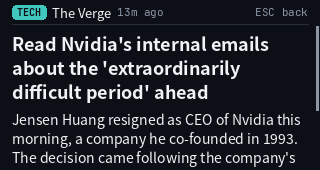
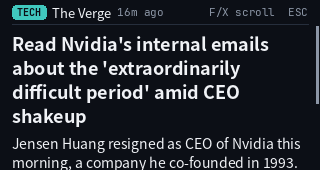
fix: use plain F/Z/X/C as arrow keys per CardputerZero key spec

diff --git a/zero_news.py b/zero_news.py
@@ -37,6 +37,9 @@ FB = '/dev/fb0'
 KBD = '/dev/input/cardputer-zero-internal'
 K_ESC, K_BACKSPACE, K_Q, K_R, K_P, K_ENTER, K_S, K_SPACE = 1, 14, 16, 19, 25, 28, 31, 57
 K_UP, K_LEFT, K_RIGHT, K_DOWN = 103, 105, 106, 108
+# Per the CardputerZero key spec, plain F/Z/X/C act as arrows outside text
+# input (Fn+F/Z/X/C sends the arrow codes themselves).
+ARROW_ALIASES = {33: K_UP, 44: K_LEFT, 45: K_DOWN, 46: K_RIGHT}
 
 BG = (12, 15, 22)
 FG = (240, 242, 246)
@@ -186,7 +189,7 @@ def detail_frame(tall, scroll, item, now):
     d = ImageDraw.Draw(img)
     d.rectangle((0, 0, W, 24), fill=BG)
     draw_source(d, item, now)
-    hint = 'ESC back'
+    hint = 'F/X scroll  ESC'
     d.text((W - 12 - d.textlength(hint, font=mono(11)), 12), hint, font=mono(11), fill=DIM, anchor='lm')
     d.line((12, 24, W - 12, 24), fill=LINE)
     if tall.height > H:
@@ -240,7 +243,7 @@ def read_keys(fd):
     for i in range(0, len(buf) - size + 1, size):
         _, _, etype, code, value = struct.unpack_from('llHHi', buf, i)
         if etype == 1 and value == 1:
-            pressed.append(code)
+            pressed.append(ARROW_ALIASES.get(code, code))
     return pressed
 
 

diff --git a/test_zero_news.py b/test_zero_news.py
@@ -260,6 +260,19 @@ class AppTests(unittest.TestCase):
         self.assertEqual(zn.detail_frame(tall, 0, app.items[1], 2000).size, (zn.W, zn.H))
 
 
+class KeyTests(unittest.TestCase):
+    def test_fzxc_act_as_arrows(self):
+        import os
+        import struct
+        r, w = os.pipe()
+        os.set_blocking(r, False)
+        self.addCleanup(os.close, r)
+        for code, value in ((33, 1), (33, 0), (44, 1), (45, 1), (46, 1), (31, 1), (103, 1)):
+            os.write(w, struct.pack('llHHi', 0, 0, 1, code, value))
+        os.close(w)
+        self.assertEqual(zn.read_keys(r), [zn.K_UP, zn.K_LEFT, zn.K_DOWN, zn.K_RIGHT, zn.K_S, zn.K_UP])
+
+
 class SettingsScreenTests(unittest.TestCase):
     def make(self):
         from settings_ui import Settings

diff --git a/settings_ui.py b/settings_ui.py
@@ -107,7 +107,7 @@ class Settings:
         d.line((12, 144, W - 12, 144), fill=LINE)
         n = len(feeds.selected_feeds(self.s))
         d.text((12, 157), f'{n} sources', font=mono(11), fill=DIM, anchor='lm')
-        keys = 'arrows move  ENTER toggle'
+        keys = 'F/Z/X/C move  OK toggle'
         d.text((W - 12 - d.textlength(keys, font=mono(10)), 157), keys, font=mono(10),
                fill=DIM, anchor='lm')
         return img

diff --git a/README.md b/README.md
@@ -20,18 +20,20 @@ The default is both languages, Tech only, rotating every 12 seconds.
 
 ## Keys
 
+As the CardputerZero key spec recommends, plain F / Z / X / C work as arrow keys.
+
 | Screen | Key | Action |
 |--------|-----|--------|
-| Main | UP / DOWN | Previous / next headline |
-| Main | ENTER | Full summary |
+| Main | F / X (or Fn+F / Fn+X) | Previous / next headline |
+| Main | OK (ENTER) | Full summary |
 | Main | P / SPACE | Pause rotation |
 | Main | R | Refresh now |
 | Main | S | Settings |
 | Main | ESC / Q | Exit |
-| Details | UP / DOWN | Scroll |
-| Details | ESC / ENTER | Back |
-| Settings | Arrows | Move (LEFT / RIGHT change the rotation speed) |
-| Settings | ENTER / SPACE | Toggle |
+| Details | F / X | Scroll |
+| Details | ESC / OK | Back |
+| Settings | F / Z / X / C | Move up / left / down / right (Z / C change the rotation speed) |
+| Settings | OK / SPACE | Toggle |
 | Settings | ESC | Save and back |
 
 ## Install
